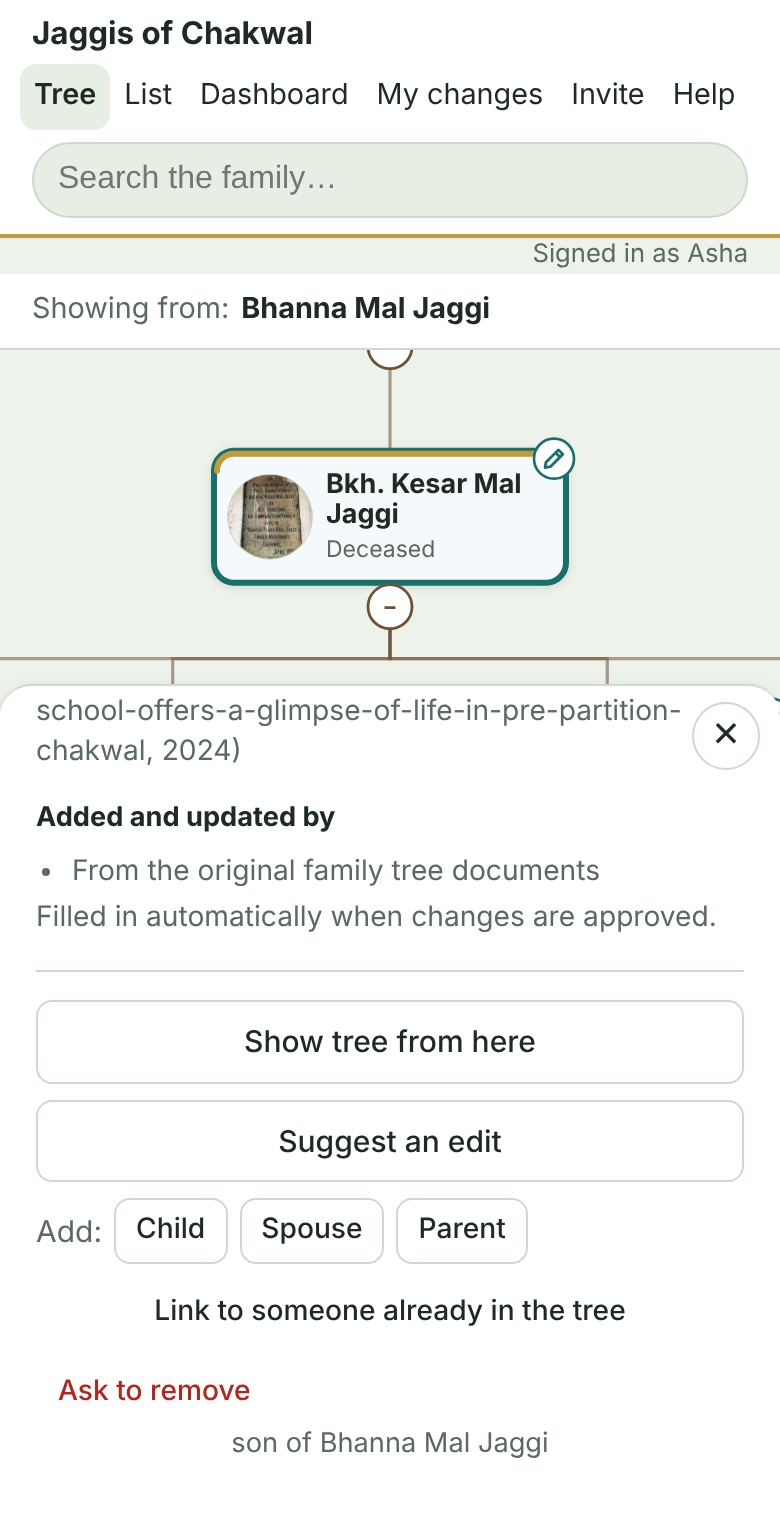
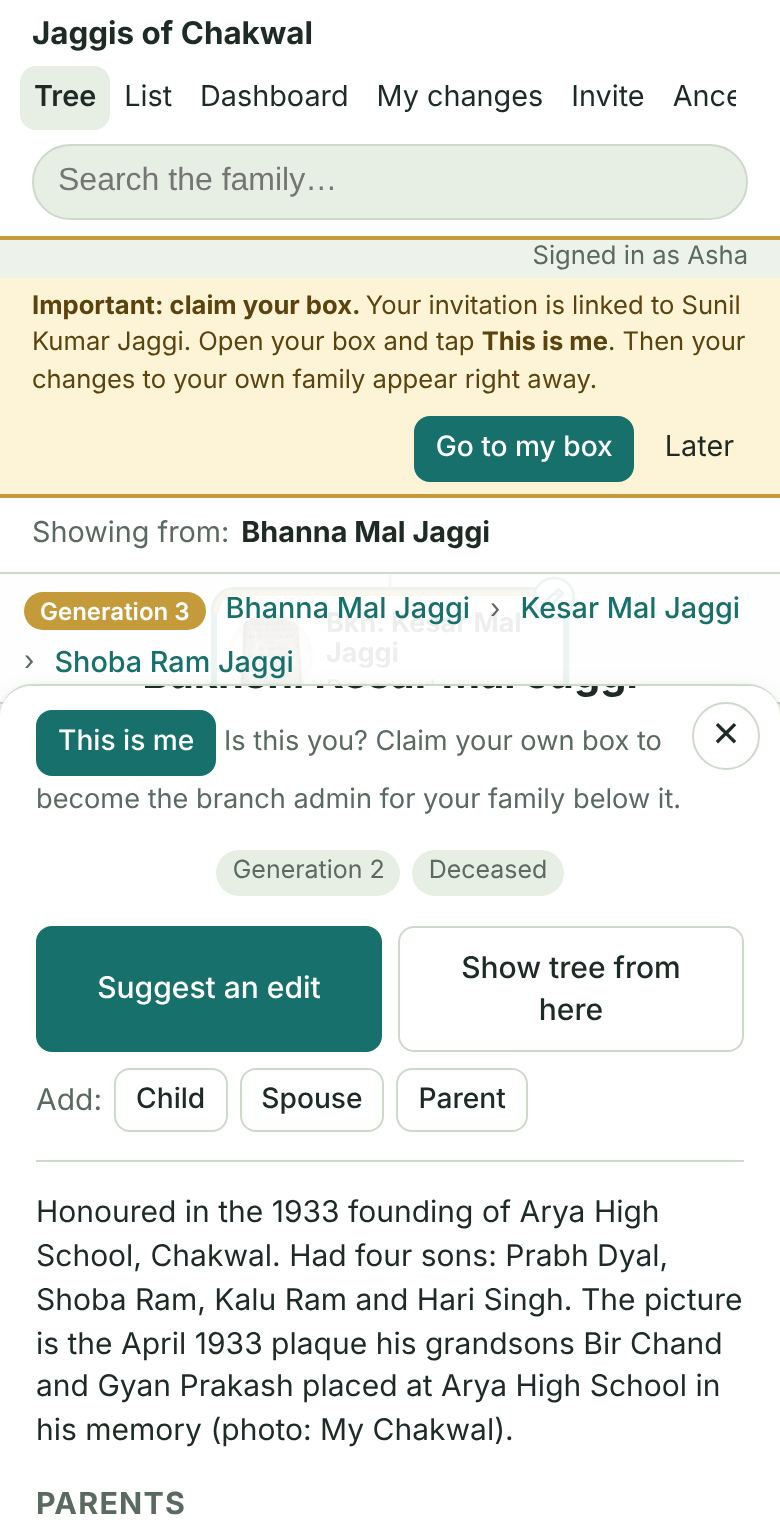
Keep Save in view and ask before discarding edits; move person-card buttons to the top
Edit, add and photo dialogs keep their Save button pinned at the bottom of the
dialog while it scrolls, and closing with the X or Escape after typing asks
whether to save, discard or keep editing. On a person's card, Edit / Suggest an
edit, Show tree from here and Add: Child / Spouse / Parent now sit right under
the name, before the details. Link and Remove from tree stay at the bottom.

Claude-Session: https://claude.ai/code/session_01JLtp1VAE6cD4aaLHUpnewB

diff --git a/site/js/panel.js b/site/js/panel.js
@@ -117,6 +117,21 @@ export function renderPanel(container, id, { onSelect, onRoot, onClose, onSignIn
       status ? h('span.tag', status) : null,
       d?.visibility === 'branch' ? h('span.tag.lock', 'Details: branch only') : null,
       pl?.confidence === 'uncertain' ? h('span.tag.warn', 'Parent not confirmed') : null),
+    // The everyday buttons sit near the top so people find them without scrolling.
+    h('div.panel-actions.panel-top',
+      canEdit ? h('div.main-row',
+        h('button.btn.primary', { type: 'button', onclick: () => openPersonForm({ mode: 'edit', person: p }) }, canManage(id, 'person') ? 'Edit' : 'Suggest an edit'),
+        h('button.btn', { type: 'button', onclick: () => onRoot(id) }, 'Show tree from here'))
+        : h('button.btn', { type: 'button', onclick: () => onRoot(id) }, 'Show tree from here'),
+      canEdit ? h('div.add-row',
+        h('span.muted', 'Add: '),
+        h('button.btn.small', { type: 'button', onclick: () => openPersonForm({ mode: 'add', relation: { as: 'child', of: id } }) }, 'Child'),
+        h('button.btn.small', { type: 'button', onclick: () => openPersonForm({ mode: 'add', relation: { as: 'spouse', of: id } }) }, 'Spouse'),
+        // The birth family of someone who married in is not added (admin excepted).
+        store.isAdmin || !fam.isMarriedIn(id) ? h('button.btn.small', { type: 'button', onclick: () => openPersonForm({ mode: 'add', relation: { as: 'parent', of: id } }) }, 'Parent') : null)
+        : !store.preview
+          ? h('p.muted.small', 'Family members can ', h('button.link', { type: 'button', onclick: onSignIn }, 'sign in'), ' to suggest changes. The admin approves every change.')
+          : null),
     pendingBox,
     detailRows.length ? h('dl.details', detailRows) : null,
     hiddenNote,
@@ -142,21 +157,9 @@ export function renderPanel(container, id, { onSelect, onRoot, onClose, onSignIn
 
     sourcesBox,
 
-    h('div.panel-actions',
-      h('button.btn', { type: 'button', onclick: () => onRoot(id) }, 'Show tree from here'),
-      canEdit ? [
-        h('button.btn', { type: 'button', onclick: () => openPersonForm({ mode: 'edit', person: p }) }, canManage(id, 'person') ? 'Edit' : 'Suggest an edit'),
-        h('div.add-row',
-          h('span.muted', 'Add: '),
-          h('button.btn.small', { type: 'button', onclick: () => openPersonForm({ mode: 'add', relation: { as: 'child', of: id } }) }, 'Child'),
-          h('button.btn.small', { type: 'button', onclick: () => openPersonForm({ mode: 'add', relation: { as: 'spouse', of: id } }) }, 'Spouse'),
-          // The birth family of someone who married in is not added (admin excepted).
-          store.isAdmin || !fam.isMarriedIn(id) ? h('button.btn.small', { type: 'button', onclick: () => openPersonForm({ mode: 'add', relation: { as: 'parent', of: id } }) }, 'Parent') : null),
-        h('button.btn.small.ghost', { type: 'button', onclick: () => openLinkForm(p) }, 'Link to someone already in the tree'),
-        store.isAdmin ? h('button.btn.small.ghost.danger', { type: 'button', onclick: () => requestDelete(p) }, 'Remove from tree') : null,
-      ] : !store.preview
-        ? h('p.muted.small', 'Family members can ', h('button.link', { type: 'button', onclick: onSignIn }, 'sign in'), ' to suggest changes. The admin approves every change.')
-        : null),
+    canEdit ? h('div.panel-actions.panel-more',
+      h('button.btn.small.ghost', { type: 'button', onclick: () => openLinkForm(p) }, 'Link to someone already in the tree'),
+      store.isAdmin ? h('button.btn.small.ghost.danger', { type: 'button', onclick: () => requestDelete(p) }, 'Remove from tree') : null) : null,
     h('p.muted.small.hint', relationHint(fam, id)),
   );
 }

diff --git a/site/js/ui.js b/site/js/ui.js
@@ -45,25 +45,65 @@ export function toast(message, kind = 'info') {
 }
 
 // Opens a modal dialog. Returns { close, body }.
-export function modal(title, content, { wide = false, onClose } = {}) {
+// With guard: true, if something was typed into the dialog's form, closing with
+// ✕ or Escape asks whether to save first, so changes aren't lost by accident.
+export function modal(title, content, { wide = false, onClose, guard = false } = {}) {
   const dlg = h('dialog.modal' + (wide ? '.wide' : ''));
+  let closed = false;
   const close = () => {
+    if (closed) return;
+    closed = true;
     dlg.close();
     dlg.remove();
     onClose?.();
   };
+  let dirty = false;
+  const markDirty = (e) => { if (e.target.closest('form')) dirty = true; };
+  dlg.addEventListener('input', markDirty);
+  dlg.addEventListener('change', markDirty);
+  let asking = false;
+  const tryClose = async () => {
+    const form = dlg.querySelector('form');
+    const submit = form?.querySelector('button[type=submit]');
+    if (!guard || !dirty || !submit || asking) return close();
+    asking = true;
+    const choice = await choiceDialog('Save your changes?', 'You changed something here but haven\'t saved it yet.', [
+      ['keep', 'Keep editing'], ['discard', 'Discard changes'], ['save', submit.textContent.trim() || 'Save', true]]);
+    asking = false;
+    if (choice === 'discard') close();
+    else if (choice === 'save') form.requestSubmit(submit);
+  };
   const body = h('div.modal-body', content);
   dlg.append(
-    h('div.modal-head', h('h2', title), h('button.icon-btn', { type: 'button', 'aria-label': 'Close', onclick: close }, '✕')),
+    h('div.modal-head', h('h2', title), h('button.icon-btn', { type: 'button', 'aria-label': 'Close', onclick: tryClose }, '✕')),
     body,
   );
   dlg.addEventListener('cancel', (e) => {
     e.preventDefault();
-    close();
+    tryClose();
   });
   document.body.append(dlg);
   dlg.showModal();
   return { close, body, dialog: dlg };
+}
+
+// A small dialog with several buttons. choices: [value, label, primary?]. Resolves to the value picked
+// (the first choice if dismissed).
+export function choiceDialog(title, message, choices) {
+  return new Promise((resolve) => {
+    let done = false;
+    const finish = (v) => {
+      if (done) return;
+      done = true;
+      m.close();
+      resolve(v);
+    };
+    const m = modal(title, [
+      h('p', message),
+      h('div.form-actions', choices.map(([v, label, primary]) =>
+        h('button.btn' + (primary ? '.primary' : ''), { type: 'button', onclick: () => finish(v) }, label))),
+    ], { onClose: () => finish(choices[0][0]) });
+  });
 }
 
 export function confirmDialog(message, okLabel = 'OK') {

diff --git a/site/css/app.css b/site/css/app.css
@@ -196,6 +196,8 @@ nav a.active { background: var(--surface-2); font-weight: 600; }
 .modal-head { position: sticky; top: 0; z-index: 1; display: flex; align-items: center; justify-content: space-between; padding: 12px 16px; background: var(--surface); border-bottom: 1px solid var(--line); }
 .modal-head h2 { margin: 0; font-size: 1.1rem; }
 .modal-body { padding: 16px; }
+/* Keep a form's Save button in view while the dialog scrolls. */
+.modal .form > .form-actions:last-child { position: sticky; bottom: 0; z-index: 1; margin: 4px -16px -16px; padding: 12px 16px; background: var(--surface); border-top: 1px solid var(--line); border-radius: 0 0 14px 14px; }
 
 /* ---------- main layout */
 body { display: flex; flex-direction: column; height: 100dvh; overflow: hidden; }
@@ -324,6 +326,8 @@ li > .outline-row { margin-left: 18px; width: calc(100% - 18px); }
 .sources { margin: 12px 0; font-size: 0.88rem; color: var(--muted); }
 .sources p { white-space: pre-wrap; }
 .panel-actions { display: grid; gap: 8px; margin-top: 16px; padding-top: 14px; border-top: 1px solid var(--line); }
+.panel-actions.panel-top { margin: 4px 0 14px; padding: 0 0 14px; border-top: 0; border-bottom: 1px solid var(--line); }
+.panel-top .main-row { display: grid; grid-template-columns: 1fr 1fr; gap: 8px; }
 .add-row { display: flex; align-items: center; gap: 6px; flex-wrap: wrap; }
 .btn.danger.ghost { justify-self: start; }
 .hint { text-align: center; margin-top: 14px; }

diff --git a/site/help.html b/site/help.html
@@ -132,7 +132,7 @@
       <li><span class="ui">Link to someone already in the tree</span>: connect two people who are both already there.</li>
     </ul>
     <div class="shots">
-      <figure class="shot"><img src="img/help/card-actions.jpg" width="390" height="760" loading="lazy" alt="The buttons at the bottom of a person's card."><figcaption>The buttons at the bottom of a person's card.</figcaption></figure>
+      <figure class="shot"><img src="img/help/card-actions.jpg" width="390" height="760" loading="lazy" alt="The buttons near the top of a person's card."><figcaption>The buttons near the top of a person's card.</figcaption></figure>
       <figure class="shot"><img src="img/help/suggest-edit.jpg" width="390" height="760" loading="lazy" alt="Suggesting an edit. Nothing changes until the admin approves it."><figcaption>Suggesting an edit. Nothing changes until the admin approves it.</figcaption></figure>
     </div>
     <p>For births and deaths, only the <strong>year</strong> is recorded, never the full date. Years can be approximate, for example <em>c. 1925</em> or <em>1930s</em>. Use <strong>Sources</strong> to say where the information came from (for example "Dadi's memory" or "school records"), and <strong>What's uncertain</strong> for anything you're not sure about.</p>

diff --git a/site/js/forms.js b/site/js/forms.js
@@ -182,7 +182,7 @@ export function openPersonForm({ mode, person = null, relation = null }) {
   });
 
   const title = mode === 'add' ? `Add ${relation.as}` : `Edit ${shortName(person)}`;
-  const m = modal(title, form);
+  const m = modal(title, form, { guard: true });
   setTimeout(() => form.given_name.focus(), 50);
 }
 
@@ -235,7 +235,7 @@ export function openPhotoForm(person) {
     btn.disabled = false;
     btn.textContent = canManage(person.id) ? 'Save photo' : 'Send for approval';
   });
-  const m = modal('Profile photo', form);
+  const m = modal('Profile photo', form, { guard: true });
 }
 
 export async function removePhoto(person) {
@@ -298,7 +298,7 @@ export function openLinkForm(person) {
     }
     await send('add_link', payload, { target: person.id, summary }, m.close);
   });
-  const m = modal('Link to someone in the tree', form);
+  const m = modal('Link to someone in the tree', form, { guard: true });
 }
 
 export async function requestRemoveLink(person, kind, link, otherName) {
